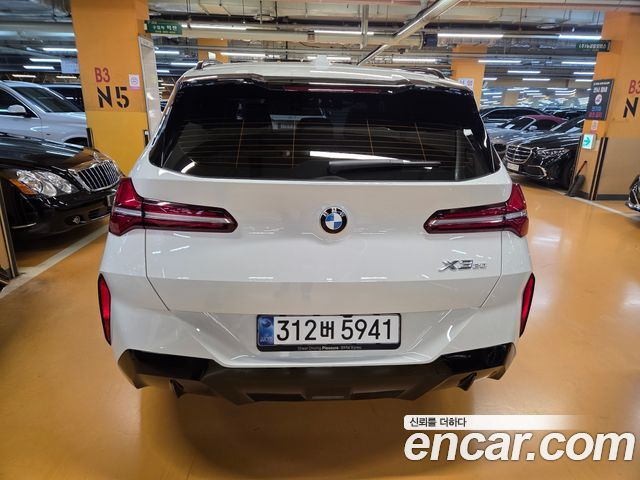
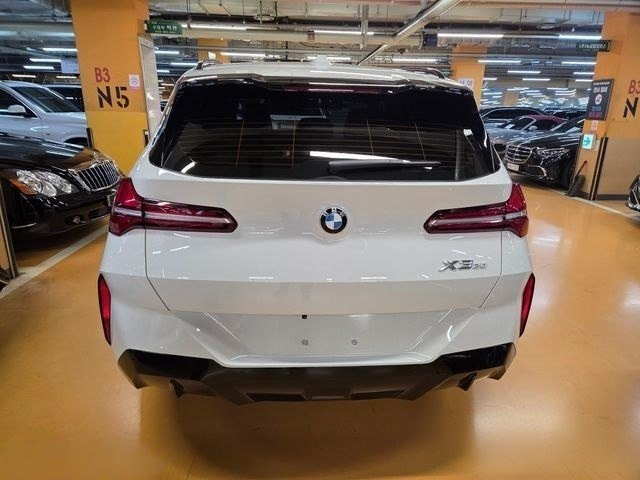
Replace BMW X3 photos and Akmal's team photo; drop unused Framer team images
Claude-Session: https://claude.ai/code/session_01KsTRVqM76gcXnBLeUvR3J4

diff --git a/src/lib/content.ts b/src/lib/content.ts
@@ -314,7 +314,7 @@ export const team: TeamMember[] = [
   {
     name: "Акмаль",
     role: "Эксперт по подбору и проверке авто · Telegram: @aim_team1",
-    image: "/media/team/akmal-bw.webp",
+    image: "/media/team/akmal-bw.png",
     bio: "Подбираю лучшие предложения на рынке Кореи и лично проверяю каждое авто — техническое состояние и юридическую чистоту. Организую доставку и оформление, чтобы покупка была безопасной и спокойной.",
   },
   {
